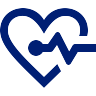
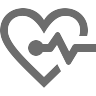
updates

Changed region(s): [[0.0, 0.0625, 0.9375, 0.9375], [0.2812, 0.3125, 1.0, 0.6875]]

diff --git a/style.css b/style.css
@@ -160,6 +160,20 @@ header nav{
 	position: relative;
 }
 */
+#bannerContainer {
+	width: 100%;
+	height: 250px;
+	position: relative;
+}
+svg {
+	position: absolute;
+	bottom: 0;
+	width: 100%;
+	height: 100px;
+}
+
+
+
 /*First two buttons - searching for candidates and jobs*/
 .sectionOne {
 	margin-top: 20px;
@@ -233,7 +247,7 @@ main img {
 }
 main ul {
 	list-style-type: none;
-	color: #001F74;
+	color: #6d6d6d;
 	font-size: 25px;
 }
 #sectionTwoBottom {

diff --git a/index.html b/index.html
@@ -48,6 +48,10 @@
 		<span class="bannerWords" id="prioritybanner">PRIORITY</span>
 		</span>
 </section>-->
+<banner id="bannerContainer">
+	<svg xmlns="http://www.w3.org/2000/svg" viewBox="0 0 10 10" preserveAspectRatio="none">
+    <polygon fill="red" points="0,10 10,0 10,10"/>
+</banner>
 <main>
 	<div id="sectionOne">
 		<section class="sectionOne" id="findCandidates">
